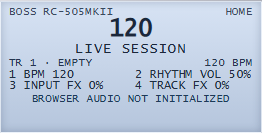
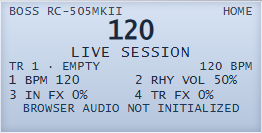
Improve Classic LCD legibility and disabled states

diff --git a/src/components/panel/CenterMainPanel.vue b/src/components/panel/CenterMainPanel.vue
@@ -66,7 +66,7 @@
             <span>{{ pageLabel }}<template v-if="screenEditor.active.value"> {{ screenEditor.pageIndex.value + 1 }}/{{ screenEditor.pageCount.value }}</template></span>
           </div>
           <div v-if="!screenEditor.active.value" class="lcd-main">{{ bpmDisplay }}</div>
-          <div class="lcd-name">{{ pageTitle }}</div>
+          <div v-if="!screenEditor.active.value" class="lcd-name">{{ pageTitle }}</div>
           <div class="lcd-row lcd-track-line">
             <span>TR {{ currentTrackId }} · {{ selectedTrackState }}</span>
             <span>{{ bpmDisplay }} BPM</span>
@@ -74,7 +74,7 @@
           <LcdFieldGrid v-if="screenEditor.active.value" :fields="screenFields" :selected-index="screenEditor.selectedFieldIndex.value"
             @select="screenEditor.selectField" @update="setScreenField" @activate="activateScreenField" />
           <div v-else class="lcd-parameter-row" aria-label="Current screen controls">
-            <span v-for="(field, index) in screenFields" :key="field.key">{{ index + 1 }} {{ field.label }} {{ displayFieldValue(field) }}</span>
+            <span v-for="(field, index) in screenFields" :key="field.key">{{ index + 1 }} {{ homeFieldLabel(field) }} {{ displayFieldValue(field) }}</span>
           </div>
           <div class="lcd-status" role="status" aria-live="polite" :title="statusHint">{{ statusHint }}</div>
           <div id="rc505-lcd-confirmations" class="lcd-confirmations"></div>
@@ -438,6 +438,15 @@ const screenFields = computed<ScreenField[]>(() => {
 function displayFieldValue(field: ScreenField): string {
   return field.format ? field.format(field.value) : `${Math.round(field.value)}${field.max === 100 ? '%' : ''}`;
 }
+
+function homeFieldLabel(field: ScreenField): string {
+  switch (field.key) {
+    case 'rhythm-volume': return 'RHY VOL';
+    case 'input-fx-value': return 'IN FX';
+    case 'track-fx-value': return 'TR FX';
+    default: return field.label;
+  }
+}
 function setScreenField(index: number, value: number): void {
   if (screenEditor.active.value) screenEditor.selectField(index);
   if (screenFields.value[index]?.disabled) return;
@@ -618,7 +627,7 @@ onUnmounted(() => {
   pointer-events: auto;
   display: grid;
   box-sizing: border-box;
-  grid-template-rows: 12px 22px 14px 12px 22px 22px;
+  grid-template-rows: 12px 25px 15px 12px 28px 24px;
   gap: 1px;
   width: 100%;
   height: 100%;
@@ -633,19 +642,18 @@ onUnmounted(() => {
   font-family: var(--font-lcd, 'Lucida Console', monospace);
 }
 .lcd-display:not(.lcd-editor-active) { aspect-ratio: 2 / 1; }
-.lcd-display.lcd-editor-active { grid-template-rows: 11px 16px 11px minmax(0, 1fr) 24px; gap: 1px; }
-.lcd-editor-active .lcd-name { font-size: 13px; line-height: 16px; letter-spacing: 0.02em; white-space: nowrap; overflow: hidden; text-overflow: ellipsis; }
-.lcd-editor-active .lcd-status { display: -webkit-box; line-height: 11px; white-space: normal; overflow-wrap: anywhere; text-overflow: clip; -webkit-line-clamp: 2; }
+.lcd-display.lcd-editor-active { grid-template-rows: 12px 12px minmax(0, 1fr) 24px; gap: 1px; }
+.lcd-editor-active .lcd-status { display: -webkit-box; line-height: 12px; white-space: normal; overflow-wrap: anywhere; text-overflow: clip; -webkit-line-clamp: 2; }
 .lcd-confirmations { position: absolute; inset: 0; z-index: 8; pointer-events: none; }
 .lcd-confirmations:not(:empty) { pointer-events: auto; }
-.lcd-row { display: flex; justify-content: space-between; gap: 8px; min-width: 0; font-size: 11px; line-height: 1; letter-spacing: 0.03em; }
+.lcd-row { display: flex; justify-content: space-between; gap: 8px; min-width: 0; font-size: 12px; line-height: 1; letter-spacing: 0.03em; }
 .lcd-row.top { color: #384860; }
-.lcd-parameter-row { display: grid; grid-template-columns: repeat(2, minmax(0, 1fr)); grid-template-rows: repeat(2, minmax(0, 1fr)); align-items: center; gap: 1px 8px; overflow: hidden; color: #202d41; font-size: 12px; line-height: 1.05; white-space: normal; }
+.lcd-parameter-row { display: grid; grid-template-columns: repeat(2, minmax(0, 1fr)); grid-template-rows: repeat(2, minmax(0, 1fr)); align-items: center; gap: 1px 8px; overflow: hidden; color: #202d41; font-size: 13px; line-height: 1; white-space: normal; }
 .lcd-parameter-row span { min-width: 0; overflow-wrap: anywhere; }
-.lcd-main { align-self: center; font-size: 24px; font-weight: 700; line-height: 0.9; text-align: center; }
-.lcd-name { font-size: 14px; line-height: 1; letter-spacing: 0.06em; text-align: center; }
+.lcd-main { align-self: center; font-size: 26px; font-weight: 700; line-height: 0.9; text-align: center; }
+.lcd-name { font-size: 15px; line-height: 1; letter-spacing: 0.06em; text-align: center; }
 .lcd-track-line { color: #24344e; }
-.lcd-status { display: -webkit-box; min-height: 0; overflow: hidden; color: #1c3957; font-size: 11px; line-height: 1.05; letter-spacing: 0.02em; text-align: center; overflow-wrap: anywhere; -webkit-box-orient: vertical; -webkit-line-clamp: 2; }
+.lcd-status { display: -webkit-box; min-height: 0; overflow: hidden; color: #1c3957; font-size: 12px; line-height: 1; letter-spacing: 0.02em; text-align: center; overflow-wrap: anywhere; -webkit-box-orient: vertical; -webkit-line-clamp: 2; }
 
 .soft-control-row { position: absolute; inset: 0; display: block; width: auto; }
 .soft-field { position: absolute; top: 185px; display: grid; justify-items: center; gap: 0; width: 64px; min-width: 64px; }

diff --git a/tests/e2e/replica-ui.spec.ts b/tests/e2e/replica-ui.spec.ts
@@ -22,6 +22,17 @@ test('replica keeps the physical control inventory and warns below readable view
     await expect(face.locator('.hardware-fader')).toHaveCount(5);
     await expect(face.getByRole('button', { name: 'Undo and redo are unavailable' })).toBeDisabled();
     await expect(face.getByRole('button', { name: 'Record or play track', exact: true }).first()).toBeDisabled();
+    const disabledRecord = face.locator('.track-strip[data-track-id="1"] [data-panel-control="record-play"]');
+    await expect(disabledRecord).toHaveCSS('opacity', '0.64');
+    await expect(disabledRecord.locator('.button-label')).toHaveCSS('color', 'rgb(241, 242, 245)');
+    await expect(face.locator('.track-strip[data-track-id="1"] .stop-disc')).toHaveCSS('opacity', '0.62');
+    if (viewport.width === 1366) {
+      const parameterCells = page.locator('.lcd-parameter-row span');
+      expect(await parameterCells.allTextContents()).toEqual(['1 BPM 120', '2 RHY VOL 50%', '3 IN FX 0%', '4 TR FX 0%']);
+      expect(await parameterCells.evaluateAll((elements) => elements.every((element) => {
+        return element.scrollWidth <= element.clientWidth && element.scrollHeight <= element.clientHeight;
+      }))).toBe(true);
+    }
     const zoom = Number(await page.getByRole('slider', { name: 'Faceplate zoom' }).inputValue());
     expect(zoom).toBeGreaterThanOrEqual(0.8);
     if (viewport.width === 390) await expect(page.locator('.viewport-warning')).toContainText('当前窗口过窄／过矮');
@@ -53,6 +64,12 @@ test('hardware MENU, LOOP and RHYTHM controls navigate in the physical LCD witho
   const rhythmEdit = face.getByTestId('rhythm-edit-button');
   await rhythmEdit.click();
   await expect(screen).toContainText(/RHYTHM/i);
+  await expect(screen.locator('.lcd-name')).toHaveCount(0);
+  const rhythmVolumeLabel = screen.locator('[data-field-key="volume"] .lcd-field-label');
+  await expect(rhythmVolumeLabel).toHaveText('VOLUME');
+  const labelWidths = await rhythmVolumeLabel.evaluate((element) => ({ scroll: element.scrollWidth, client: element.clientWidth }));
+  expect(labelWidths.scroll).toBeLessThanOrEqual(labelWidths.client);
+  await expect(screen.locator('[data-field-key="pattern"] .lcd-field-label')).toHaveCSS('font-size', '13px');
   await screen.screenshot({ path: testInfo.outputPath('lcd-editor-1920.png') });
   await expect(page.locator('.device-drawer-layer[data-open="true"]')).toHaveCount(0);
   await expect(screen.locator(':focus')).toHaveCount(1);

diff --git a/src/components/panel/LcdFieldGrid.vue b/src/components/panel/LcdFieldGrid.vue
@@ -228,8 +228,9 @@ function activateField(index: number): void {
   color: #e9f1ff;
   box-shadow: inset 0 0 0 1px rgba(255, 255, 255, 0.24);
 }
-.lcd-field-card:has(.lcd-enum-control) { display: grid; grid-template-rows: 11px minmax(0, 1fr); gap: 0; padding: 1px 2px; }
+.lcd-field-card:has(.lcd-enum-control) { display: grid; grid-template-rows: 12px minmax(0, 1fr); gap: 0; padding: 1px 2px; }
 .lcd-field-card.is-number { flex-direction: column; align-items: stretch; justify-content: center; gap: 1px; padding: 1px 3px; }
+.lcd-field-card.is-number .lcd-field-label { font-size: 12px; letter-spacing: 0; }
 
 .lcd-field-card.is-disabled {
   border-style: dashed;
@@ -249,7 +250,7 @@ function activateField(index: number): void {
   min-width: 0;
   overflow: hidden;
   color: inherit;
-  font-size: 12px;
+  font-size: 13px;
   font-weight: 700;
   line-height: 1;
   letter-spacing: 0.03em;
@@ -261,10 +262,10 @@ function activateField(index: number): void {
   display: grid;
   grid-template-columns: minmax(0, 1fr) auto;
   align-items: center;
-  gap: 4px;
+  gap: 2px;
   width: 100%;
   min-width: 0;
-  height: 14px;
+  height: 16px;
 }
 
 .lcd-field-value {
@@ -272,7 +273,7 @@ function activateField(index: number): void {
   max-width: 86px;
   overflow: hidden;
   color: inherit;
-  font-size: 14px;
+  font-size: 15px;
   font-weight: 800;
   line-height: 1;
   letter-spacing: 0.02em;
@@ -319,7 +320,7 @@ function activateField(index: number): void {
   grid-template-rows: minmax(0, 1fr) 5px;
   align-items: center;
   min-width: 0;
-  height: 16px;
+  height: 20px;
   border-top: 1px solid rgba(37, 50, 72, 0.32);
   border-bottom: 1px solid rgba(37, 50, 72, 0.32);
 }
@@ -327,10 +328,10 @@ function activateField(index: number): void {
 .lcd-enum-value {
   display: block;
   width: 100%;
-  max-height: 11px;
+  max-height: 14px;
   overflow: hidden;
   color: inherit;
-  font: 700 11px/1 var(--font-lcd, 'Lucida Console', monospace);
+  font: 700 13px/1 var(--font-lcd, 'Lucida Console', monospace);
   text-align: center;
   text-overflow: ellipsis;
   white-space: nowrap;
@@ -401,7 +402,7 @@ function activateField(index: number): void {
 .lcd-field-action strong {
   min-width: 0;
   overflow: hidden;
-  font-size: 12px;
+  font-size: 14px;
   line-height: 1;
   text-overflow: ellipsis;
   white-space: nowrap;

diff --git a/src/composables/useDeviceScreenEditor.ts b/src/composables/useDeviceScreenEditor.ts
@@ -495,7 +495,7 @@ export function useDeviceScreenEditor(options: DeviceScreenEditorOptions = {}) {
     const kitOptions = DRUM_KIT_CATALOG.map((kit) => ({ label: `${kit.index} · ${kit.officialName}`, value: kit.index }));
     const base: DeviceScreenField[] = [
       makeNumberField('bpm', 'TEMPO', Transport.getInstance().bpm, (value) => { Transport.getInstance().setBpm(Math.max(40, Math.min(300, Math.round(value)))); }, { min: 40, max: 300, step: 1, disabled: rhythm.disabled.value, reason: rhythm.message.value }),
-      makeNumberField('volume', 'RHYTHM VOLUME', rhythm.volume.value, async (value) => { rhythm.volume.value = Math.max(0, Math.min(100, value)); await rhythm.updateVolume(); }, { min: 0, max: 100, step: 1, disabled: rhythm.disabled.value, reason: rhythm.message.value }),
+      makeNumberField('volume', 'VOLUME', rhythm.volume.value, async (value) => { rhythm.volume.value = Math.max(0, Math.min(100, value)); await rhythm.updateVolume(); }, { min: 0, max: 100, step: 1, disabled: rhythm.disabled.value, reason: rhythm.message.value }),
       makeEnumField('pattern', 'PATTERN', rhythmUiState.patternIndex, patternOptions, (value) => { void rhythm.updateSelection({ patternIndex: value }); }, { disabled: rhythm.disabled.value, reason: rhythm.message.value }),
       makeEnumField('kit', 'KIT', rhythmUiState.kitIndex, kitOptions, (value) => { void rhythm.updateSelection({ kitIndex: value }); }, { disabled: rhythm.disabled.value, reason: rhythm.message.value }),
       makeEnumField('variation', 'VARIATION', RHYTHM_VARIATIONS.indexOf(rhythmUiState.variation), fieldOptions(RHYTHM_VARIATIONS), (value) => { void rhythm.updateSelection({ variation: RHYTHM_VARIATIONS[value] ?? 'A' }); }, { disabled: rhythm.disabled.value, reason: rhythm.message.value }),

diff --git a/src/components/panel/TrackStrip.vue b/src/components/panel/TrackStrip.vue
@@ -293,7 +293,7 @@ const stateLabel = computed(() => {
 }
 
 .track-strip.disabled {
-  opacity: 0.72;
+  opacity: 0.84;
 }
 
 .track-warning {
@@ -380,7 +380,7 @@ const stateLabel = computed(() => {
 
 .stop-disc:hover:not(:disabled) { border-color: #fff; background: radial-gradient(circle at 35% 30%, #444850 0%, #191b21 72%); }
 .stop-disc:focus-visible { outline: 3px solid #6bc5ff; outline-offset: 3px; }
-.stop-disc:disabled { opacity: 0.42; cursor: not-allowed; }
+.stop-disc:disabled { opacity: 0.62; cursor: not-allowed; }
 .stop-disc:active:not(:disabled) { transform: translateY(1px); }
 
 .stop-disc .stop-square {

diff --git a/src/components/ui/HardwareButton.vue b/src/components/ui/HardwareButton.vue
@@ -439,5 +439,9 @@ onUnmounted(() => {
   border-color: #e1f6ff;
   box-shadow: 0 0 7px rgba(79,195,255,.88), 0 0 18px rgba(42,169,255,.56), inset 0 1px rgba(255,255,255,.65), inset 0 -4px 9px rgba(0,44,74,.54);
 }
-.hardware-button.appearance-classic.is-disabled { filter: grayscale(.65); opacity: .42; }
+.hardware-button.appearance-classic.is-disabled { filter: grayscale(.55); opacity: .64; }
+.hardware-button.appearance-classic.is-disabled .button-label {
+  color: #f1f2f5;
+  text-shadow: 0 1px 1px #090a0d;
+}
 </style>

diff --git a/src/components/ui/HardwareKnob.vue b/src/components/ui/HardwareKnob.vue
@@ -273,6 +273,10 @@ onUnmounted(() => stopDrag());
   cursor: not-allowed;
   filter: grayscale(0.65);
 }
+.hardware-knob-wrapper.appearance-classic.is-disabled {
+  opacity: 0.64;
+  filter: grayscale(0.55);
+}
 
 .hardware-knob-wrapper:active {
   cursor: grabbing;

diff --git a/src/components/ui/HardwareFader.vue b/src/components/ui/HardwareFader.vue
@@ -186,6 +186,10 @@ const handleInput = (event: Event) => {
   filter: grayscale(1);
   opacity: 0.5;
 }
+.hardware-fader.appearance-classic.is-disabled .fader-cap {
+  filter: grayscale(0.65);
+  opacity: 0.66;
+}
 
 .fader-cap {
   position: absolute;

diff --git a/docs/validation/ui-2026-10-19/README.md b/docs/validation/ui-2026-10-19/README.md
@@ -1,6 +1,6 @@
 # RC-505mkII 面板 UI 验证（2026-10-19）
 
-基线：`b455a76`。本目录保存本次 Browser／Native Classic 面板验收截图和运行记录。
+首轮复刻基线：`b455a76`；本轮续修起点：`85c24a8`。本目录保存 Browser／Native Classic 面板验收截图和运行记录。
 
 ## 视觉记录
 
@@ -10,10 +10,18 @@
 - [真实 Native WASAPI 页面](native-live-bridge-1920.png)、[Native LCD](native-live-lcd-1920.png)和[读取状态](native-live-bridge.json)。实际本机桥接报告 `NATIVE AUDIO READY`、5 个循环轨及输入／Track A–D 能力；该检查只读，没有向真实 Native 写入命令。
 - [录音](browser-recording-glow.png)、[播放](browser-playing-glow.png)、[叠录](browser-overdub-glow.png)和[录制结果](browser-recorded.png)截图，以及[Browser 虚拟输入记录](browser-runtime.json)。
 
+## 2026-10-19 可读性续修
+
+- 提高 Classic 禁用按钮、旋钮、推子帽和 STOP 键的可辨识度，保持原有 disabled 语义及操作行为。
+- LCD 编辑页移除重复页名，把空间还给参数；放大字段文字，并把节奏音量项简写为 `VOLUME`。
+- 首页参数行改用 `RHY VOL`、`IN FX`、`TR FX`，避免 80% 缩放时换行覆盖。上方整机与 LCD 截图已更新。
+- 新增 1366×768 参数行的完整性／溢出检查和编辑页字段标题检查。
+
 ## 验收结果
 
 - `npm run build`：通过，包含 `vue-tsc -b`、AudioWorklet bundle、Vite build 和第三方许可文件核验。Vite 报告现有大于 500 kB 的 JS chunk；Browserslist/Baseline 数据提示过期，均为非阻断警告。
 - Playwright Classic／LCD／Browser／Native 定向回归：10/10 通过。包括 41 个按钮、7 个旋钮、5 个推子，1920×1080／1366×768／窄窗口，LCD 内 MENU／LOOP／RHYTHM／FX 操作，Browser 虚拟输入录音→停止→播放→叠录→停止，STOP 长按取消与 1500 ms 清空，以及真实 Native 页面就绪状态。
+- 本轮续修后重新运行 `replica-ui` 7/7 和 `native-rhythm-ui` 3/3；LCD／设备页相关单元测试 11/11。`replica-ui` 曾在生产构建同时运行时遇到一次白屏超时，构建结束后的连续重跑 7/7 通过。
 - Native ACK 成功、拒绝、状态回读和错误恢复由 Native rhythm 测试桥验证；真实 Native 页面只做状态读取，避免修改用户设备参数。
 - `npm run test:unit -- --maxWorkers=1 --testTimeout=30000`：122/122 个文件、789/789 项通过。首轮默认并行运行出现 8 个超时和 1 个旧下拉框值断言；滑杆值断言已更新。单 worker 全量重跑确认所有项通过。
 
